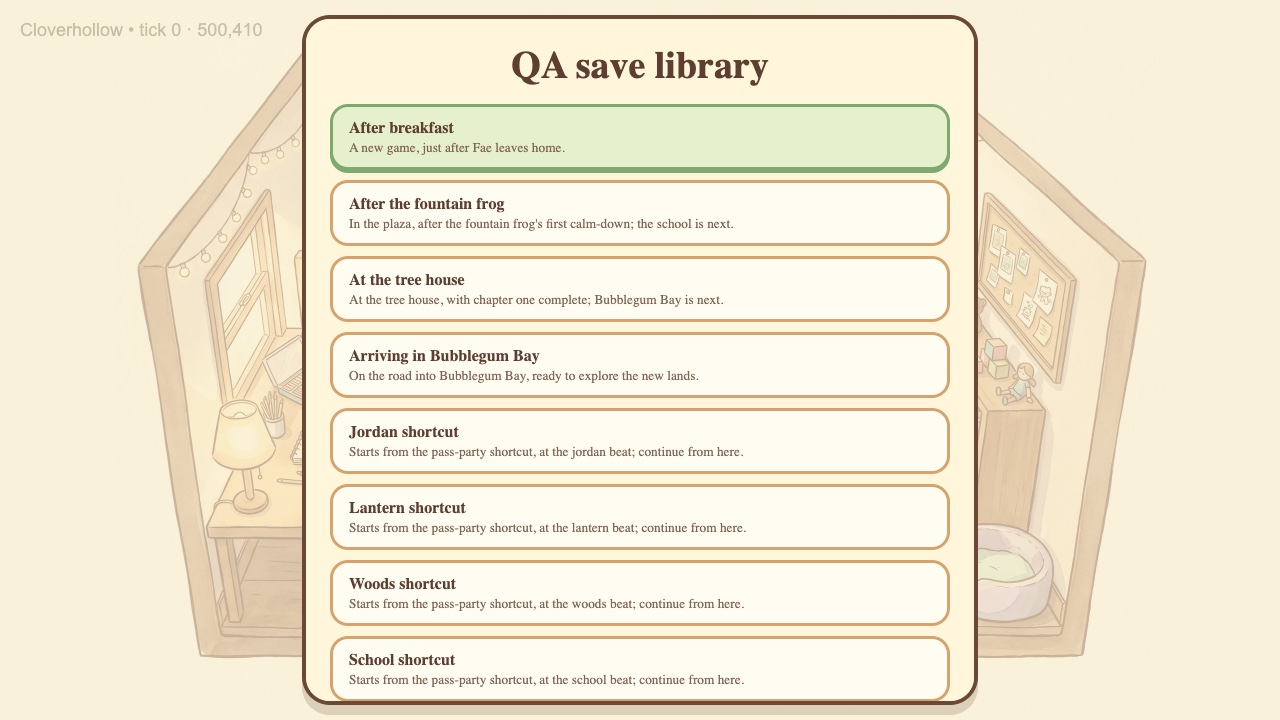
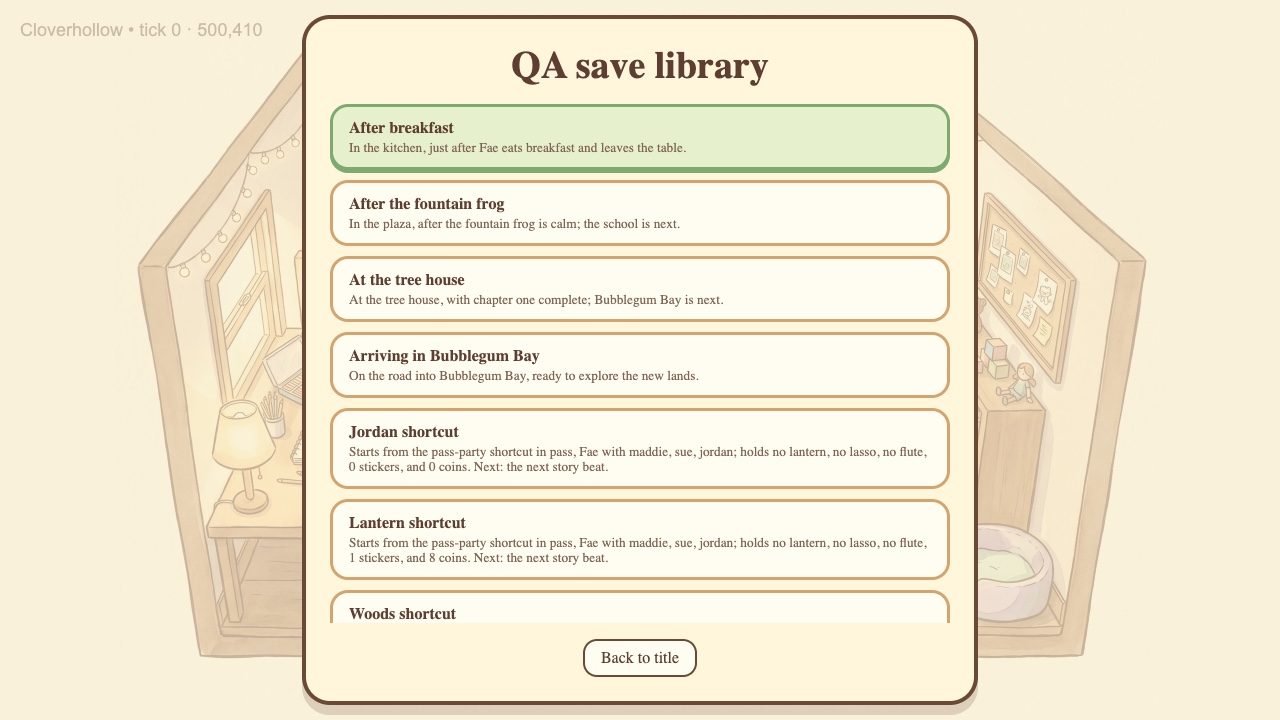
fix: keep picked QA packs live (Milestone 65)

diff --git a/tools/qa/build-saves.ts b/tools/qa/build-saves.ts
@@ -29,7 +29,7 @@ const specs: PackSpec[] = [
     "clubhouse", "kitchen", "arcade", "lodge", "squirrel", "mist", "forest",
     "kid", "flute", "lasso"].map((run) => ({
     id: `shortcut-${run}`, label: `${run[0]?.toUpperCase() ?? ""}${run.slice(1)} shortcut`,
-    note: `Starts from the pass-party shortcut, at the ${run} beat; continue from here.`,
+    note: "",
     fixture: "pass-party", run: `pass-party/${run}.json`, interim: true,
   })),
 ];
@@ -74,6 +74,48 @@ function stateAt(states: State[], index: number): State {
   return state;
 }
 
+const areaNames: Record<string, string> = {
+  plaza: "the plaza", kitchen: "the kitchen", bedroom: "the bedroom", park: "the park",
+  pass: "Pinecone Pass",
+  school: "the school", classroom: "the classroom", gym: "the gym", bay: "Bubblegum Bay",
+  woods: "the Whispering Woods", "east-hall": "the east hall", clubhouse: "the clubhouse",
+  arcade: "the arcade", lodge: "the lodge", squirrel: "the squirrel trail", mist: "the mist trail",
+  music: "the music room",
+  enchanted: "the Enchanted Forest", field: "the field",
+};
+const nextBeats: Record<string, string> = {
+  jordan: "the lantern", lantern: "the woods", woods: "the school chapter", school: "the gym",
+  gym: "the music room", music: "the field", field: "the clubhouse", clubhouse: "the kitchen",
+  kitchen: "the arcade", arcade: "the lodge", lodge: "the squirrel trail", squirrel: "the mist",
+  mist: "the Enchanted Forest", forest: "the kid", kid: "the flute and lasso beats",
+  flute: "the lasso beat", lasso: "the ending",
+};
+function noteFor(spec: PackSpec, state: State): string {
+  if (!spec.interim) {
+    if (spec.id === "breakfast")
+      return "In the kitchen, just after Fae eats breakfast and leaves the table.";
+    if (spec.id === "fountain-frog")
+      return "In the plaza, after the fountain frog is calm; the school is next.";
+    if (spec.id === "tree-house")
+      return "At the tree house, with chapter one complete; Bubblegum Bay is next.";
+    return "On the road into Bubblegum Bay, ready to explore the new lands.";
+  }
+  const party = state.party.length === 0
+    ? "Fae alone"
+    : `Fae with ${state.party.map((member) => member.id).join(", ")}`;
+  const tools = [
+    content.world.storyVariable(state.ink, "has_lantern") === true ? "lantern" : "no lantern",
+    content.world.storyVariable(state.ink, "has_lasso") === true ? "lasso" : "no lasso",
+    content.world.storyVariable(state.ink, "has_flute") === true ? "flute" : "no flute",
+  ].join(", ");
+  const run = spec.run.replace("pass-party/", "").replace(".json", "");
+  const next = nextBeats[run] ?? "the next story beat";
+  const stickerCount = `${state.stickers.length} sticker${state.stickers.length === 1 ? "" : "s"}`;
+  const location = areaNames[state.area] ?? state.area;
+  return `Starts from the pass-party shortcut in ${location}, ${party}; ` +
+    `holds ${tools}, ${stickerCount}, and ${state.coins} coins. Next: ${next}.`;
+}
+
 function replay(spec: PackSpec): { states: State[]; final: State } {
   const key = `${spec.fixture}/${spec.run}`;
   const cached = replayCache.get(key);
@@ -100,9 +142,8 @@ for (const spec of specs) {
   let tick = requested;
   let foundAutosave = false;
   while (tick <= states.length - 1) {
-    const previous = stateAt(states, tick - 1);
     const current = stateAt(states, tick);
-    if (tick > 0 && autosaveNeeded(previous, current) && current.battle === null &&
+    if (tick > 0 && autosaveNeeded(stateAt(states, tick - 1), current) && current.battle === null &&
       current.arcade === null && current.finale === null) {
       foundAutosave = true;
       break;
@@ -121,7 +162,7 @@ for (const spec of specs) {
   bytes.add(serialized); origins.add(`${spec.run}:${tick}`);
   writeFileSync(`${outDir}/${spec.id}.json`, serialized);
   manifest.push({
-    id: spec.id, label: spec.label, note: spec.note, fixture: spec.fixture,
+    id: spec.id, label: spec.label, note: noteFor(spec, state), fixture: spec.fixture,
     run: spec.run, tick, interim: spec.interim, hash: stableHash(state),
   });
 }

diff --git a/tests/e2e/qa.spec.ts b/tests/e2e/qa.spec.ts
@@ -43,6 +43,33 @@ test(
   },
 );
 
+test("a picked QA pack keeps the real-time loop running", async ({ page }) => {
+  await page.goto("./");
+  await page.waitForFunction(() => Boolean(window.__cloverhollow));
+  await page.keyboard.press("q");
+  await expect(page.locator(".qa-menu")).toBeVisible();
+  await page.keyboard.press("ArrowDown");
+  await page.keyboard.press("z");
+  await expect(page.locator(".qa-badge")).toBeVisible();
+  const before = await readState(page);
+  await page.keyboard.down("ArrowRight");
+  await page.waitForTimeout(1500);
+  await page.keyboard.up("ArrowRight");
+  const after = await readState(page);
+  expect(after.tick).toBeGreaterThan(before.tick);
+  expect(after.player.x).toBeGreaterThan(before.player.x);
+});
+
+test("the QA menu keeps Back to title visible on a phone viewport", async ({ page }) => {
+  await page.setViewportSize({ width: 874, height: 402 });
+  await page.goto("./");
+  await page.waitForFunction(() => Boolean(window.__cloverhollow));
+  await page.keyboard.press("q");
+  await expect(page.locator(".qa-menu")).toBeVisible();
+  await expect(page.locator(".qa-back")).toBeVisible();
+  await expect(page.locator(".qa-back")).toBeInViewport();
+});
+
 test("a QA URL boots the named pack and shows its badge", async ({ page }) => {
   await page.goto("./?qa=shortcut-jordan");
   await page.waitForFunction(() => Boolean(window.__cloverhollow));

diff --git a/src/ui/qa.css b/src/ui/qa.css
@@ -1,8 +1,8 @@
 .qa-menu { position: fixed; inset: 0; z-index: 30; display: grid; place-items: center; padding: 24px; background: rgb(248 237 207 / 72%); }
 .qa-menu[hidden] { display: none; }
-.qa-card { width: min(620px, 92vw); max-height: 88vh; overflow: auto; padding: 24px; border: 4px solid #6b4937; border-radius: 28px; background: #fff6db; box-shadow: 0 10px 0 rgb(107 73 55 / 20%); }
+.qa-card { width: min(620px, 92vw); max-height: 88vh; overflow: hidden; display: flex; flex-direction: column; padding: 24px; border: 4px solid #6b4937; border-radius: 28px; background: #fff6db; box-shadow: 0 10px 0 rgb(107 73 55 / 20%); }
 .qa-heading { margin: 0 0 16px; color: #5d3e30; font-size: clamp(24px, 5vw, 38px); text-align: center; }
-.qa-list { display: grid; gap: 10px; }
+.qa-list { display: grid; gap: 10px; min-height: 0; overflow: auto; }
 .qa-option { display: grid; gap: 3px; padding: 12px 16px; color: #5d3e30; text-align: left; border: 3px solid #d4a36d; border-radius: 18px; background: #fffdf1; font: inherit; cursor: pointer; }
 .qa-option[aria-selected="true"] { border-color: #7eaa70; background: #e6f0cc; box-shadow: 0 3px 0 #7eaa70; }
 .qa-back { margin: 16px auto 0; display: block; padding: 8px 16px; border: 2px solid #6b4937; border-radius: 14px; background: #fffdf1; color: #5d3e30; font: inherit; }

diff --git a/src/main.ts b/src/main.ts
@@ -220,7 +220,7 @@ async function boot(): Promise<void> {
   const pickQa = (item: PackState): void => {
     const loaded = parseSave(item.save, fresh);
     if (loaded === null) throw new Error(`QA save ${item.pack.id} is invalid`);
-    state = loaded; qaActivePack = item; qaMenuOpen = false; titleMode = null; paused = true;
+    state = loaded; qaActivePack = item; qaMenuOpen = false; titleMode = null;
     qaJustPicked = true;
     swallowed.add("confirm");
   };

diff --git a/docs/plan.md b/docs/plan.md
@@ -2882,18 +2882,24 @@ the old trail, the owl, and the clubhouse claim.
   relaunch to leave.
 - `just build` fails if QA mode or a pack reaches the production bundle, or
   if the harness bundle lacks it.
-- Evidence: unit tests (pack freshness and the QA flow), Chromium and WebKit
-  real-input e2e coverage (Q on the title, a pack picked with the arrows and
-  Z, movement, save-slot preservation, cancellation, an unknown id, a touch
-  long press and pick, and a fixture reset), the menu and badge screenshotted
-  and viewed, reviewed JPEG evidence in `art/review/`, and the menu and pack
-  pick on the iOS simulator.
-- Gates and notes (2026-10-18): Q was free in the input map, so it is the
-  keyboard entry, alongside a logo long press and `?qa=<id>`. The library has
-  four real packs from the new-game chapter-one/east-road runs and seventeen
-  interim packs from the pass-party runs, each cut at a valid autosave. QA
-  content is loaded only by the dev/harness dynamic module, keeping the player
-  slot untouched and autosaves disabled.
+- Evidence: unit tests (pack freshness, URL validation, and the QA flow),
+  Chromium and WebKit real-input e2e coverage for keyboard selection, movement,
+  real-time ticking after a pick, save-slot preservation, cancellation, an
+  unknown id, touch long press and pick, fixture reset, and the visible Back to
+  title control at phone size. The Chromium menu and badge baselines and their
+  reviewed JPEGs were captured and viewed. The iOS simulator was built and
+  launched for this pass; its touch menu/pick evidence remains pending because
+  the available simulator snapshot did not expose the web-view logo or menu
+  controls as actionable elements.
+- Gates and notes (2026-10-18): the first push (`bec40b06`) went out with the
+  gate red; CI run `39178771039` failed 64 tests. Hotfix `e2520a6d` added the
+  `[hidden]` rule and initialized sound before the QA import. This fix pass
+  also fixed the frozen real-time loop after a pack pick. The four real packs
+  are cut at breakfast tick 189 in the kitchen, the fountain frog at tick 1045
+  in the plaza, the tree house at tick 4419, and Bubblegum Bay at tick 5564.
+  The seventeen `pass-party` packs remain explicitly interim and are ordered
+  by story progression. QA content is loaded only by the dev/harness dynamic
+  module, keeping the player slot untouched and autosaves disabled.
 
 ## Milestone 66: Experience and levels **Status:** 📋 Planned (a proposal for the owner's review)
 - The owner asked for experience and levels (2026-10-18), for the cheat
